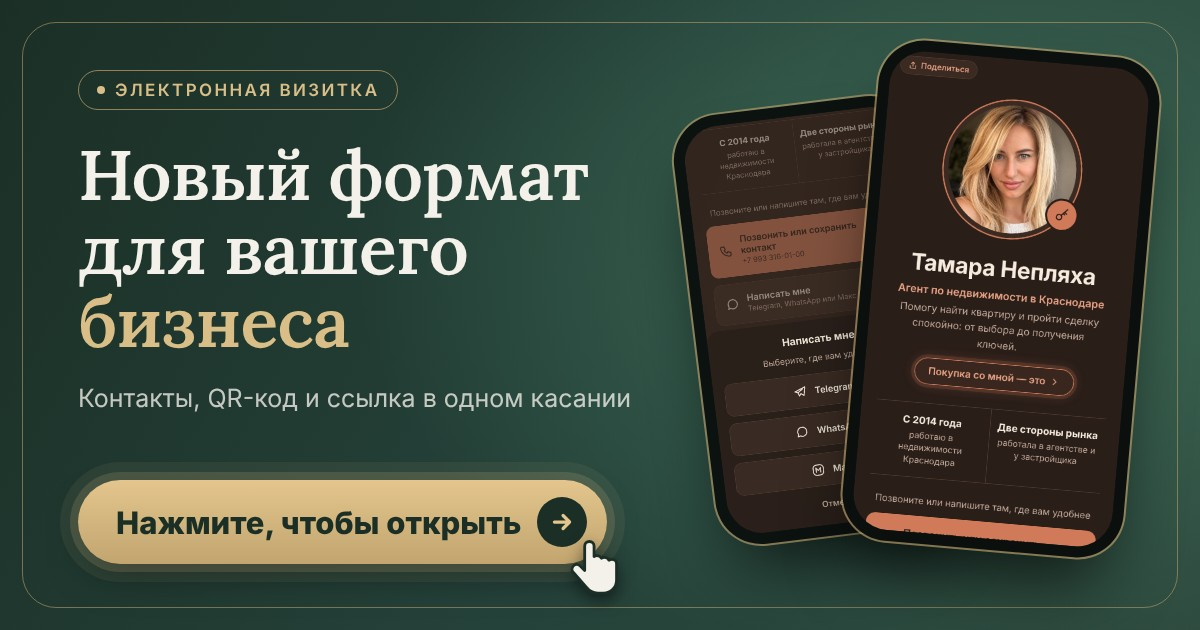
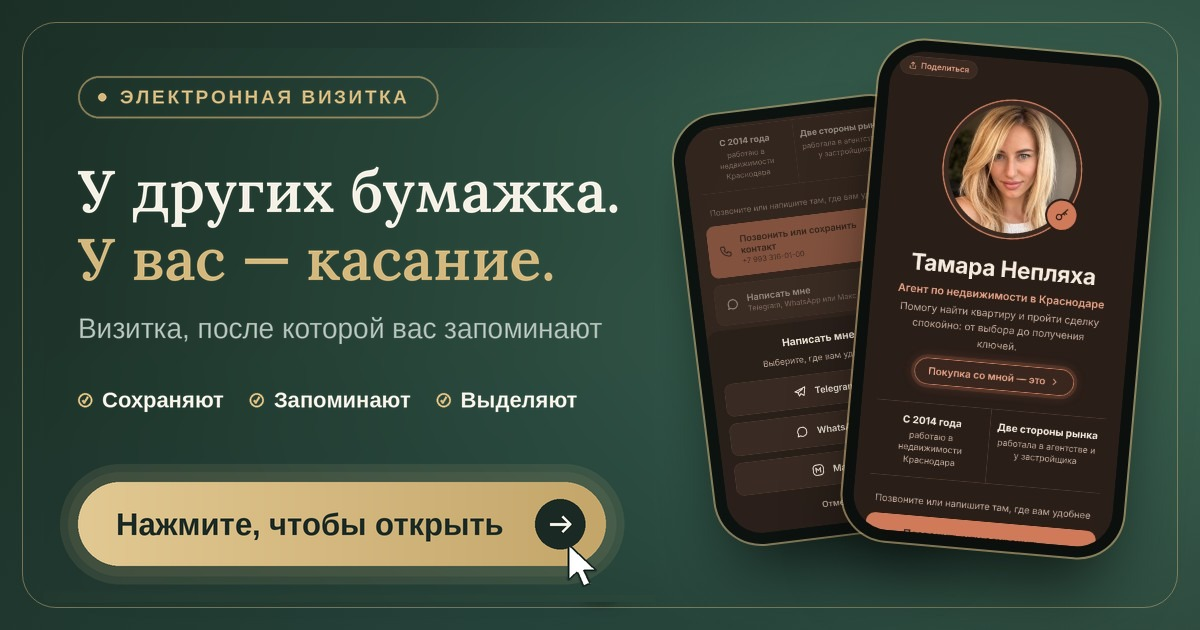
Add files via upload

diff --git a/vizitka-nikolai/index.html b/vizitka-nikolai/index.html
@@ -5,12 +5,12 @@
 <meta name="viewport" content="width=device-width, initial-scale=1, viewport-fit=cover">
 <title>Электронная визитка под ключ — Николай</title>
 <meta name="description" content="Электронная визитка: ссылка, QR-код и все ваши контакты в одном месте. Закажите в личных сообщениях.">
-<meta property="og:title" content="Новый формат для вашего бизнеса">
-<meta property="og:description" content="Электронная визитка: контакты, QR-код и ссылка в одном касании. Нажмите, чтобы посмотреть, как это работает.">
+<meta property="og:title" content="У других бумажка. У вас — касание">
+<meta property="og:description" content="Электронная визитка, после которой вас запоминают. Нажмите, чтобы посмотреть, как это работает.">
 <meta property="og:type" content="website">
 <meta property="og:locale" content="ru_RU">
 <meta property="og:url" content="https://tamara-neplyaha.github.io/vizitka-nikolai/">
-<meta property="og:image" content="https://tamara-neplyaha.github.io/vizitka-nikolai/preview.jpg?v=4">
+<meta property="og:image" content="https://tamara-neplyaha.github.io/vizitka-nikolai/preview.jpg?v=5">
 <meta property="og:image:width" content="1200">
 <meta property="og:image:height" content="630">
 <meta name="twitter:card" content="summary_large_image">
@@ -292,6 +292,33 @@ html.pick-open{overflow:hidden}
 .pick span{display:block;margin-top:4px;color:var(--muted);font-size:13.5px;line-height:1.4}
 .pick-close{display:flex;align-items:center;justify-content:center;width:100%;min-height:48px;margin-top:14px;padding:0 16px;border-radius:999px;border:1.5px solid var(--line);background:transparent;color:var(--muted);font:600 15px/1 Manrope,"Segoe UI",system-ui,sans-serif;cursor:pointer}
 @media (prefers-reduced-motion:reduce){.pick-box{animation:none}}
+
+/* касание NFC-брелоком: экран «просыпается» и запускается видео */
+.stage{overflow-x:clip}
+.phone{cursor:pointer}
+.screen.demoscr{position:relative}
+.wake{position:absolute;inset:0;z-index:2;display:flex;align-items:center;justify-content:center;background:#15100D;opacity:0;pointer-events:none;line-height:0}
+.wake svg{width:46px;height:46px;fill:none;stroke:#C2A56F;stroke-width:1.6;stroke-linecap:round}
+.tap-pre .wake{opacity:1}
+.tap-on .wake{animation:wakeFade 4.4s ease both}
+@keyframes wakeFade{0%,33%{opacity:1}45%,100%{opacity:0}}
+.tap-ring{position:absolute;left:10px;top:10px;width:24px;height:24px;margin:-12px 0 0 -12px;border:2px solid #C2A56F;border-radius:50%;opacity:0;pointer-events:none;z-index:3}
+.tap-on .tap-ring{animation:tapRing 1.4s ease-out both;animation-delay:calc(1.45s + var(--d,0s))}
+@keyframes tapRing{0%{transform:scale(.4);opacity:.9}100%{transform:scale(6);opacity:0}}
+.tap-hand{position:absolute;left:-106px;top:-10px;width:150px;height:auto;opacity:0;pointer-events:none;z-index:4;filter:drop-shadow(0 6px 8px rgba(0,0,0,.35))}
+.tap-on .tap-hand{animation:handGo 4.4s both}
+@keyframes handGo{
+  0%,8%{transform:translate(-110px,130px) rotate(-6deg);opacity:0;animation-timing-function:cubic-bezier(.2,.7,.3,1)}
+  14%{opacity:1}
+  33%{transform:translate(0,0) rotate(0);opacity:1}
+  38%{transform:translate(2px,-2px) scale(.98)}
+  44%,52%{transform:translate(0,0) rotate(0);opacity:1;animation-timing-function:ease-in}
+  73%,100%{transform:translate(-110px,130px) rotate(-6deg);opacity:0}
+}
+.tapcap{margin-top:14px;text-align:center;color:var(--brass);font:600 15px/1.4 Manrope,"Segoe UI",system-ui,sans-serif}
+.stage.tap-pre+.tapcap{opacity:0}
+.stage.tap-on+.tapcap{animation:capIn 4.4s ease both}
+@keyframes capIn{0%,40%{opacity:0;transform:translateY(6px)}55%,100%{opacity:1;transform:none}}
 </style>
 <script>
 /* Сезон: зима с 1 декабря по 10 января включительно, в остальное время осень.
@@ -349,7 +376,7 @@ html.pick-open{overflow:hidden}
   <p class="ny"><span aria-hidden="true">❄</span><b id="nytxt">С наступающим<br>Новым годом!</b><span aria-hidden="true">❄</span></p>
   <h1>Новый формат<br><em>для вашего бизнеса</em></h1>
   <div class="orn" aria-hidden="true"><i></i></div>
-  <p class="lead gold">Все ваши контакты, соцсети, сайты, фото, отзывы в одной визитке</p>
+  <p class="lead gold">Бумажную визитку теряют. Эту сохраняют</p>
 
   <div class="stage" aria-hidden="true">
     <div class="phone"><svg class="hat" viewBox="0 0 100 100" aria-hidden="true">
@@ -369,9 +396,35 @@ html.pick-open{overflow:hidden}
         </g>
         <path d="M14 82C30 86 70 86 90 82" stroke="#C9D5E0" stroke-opacity=".7" stroke-width="1.6" fill="none" stroke-linecap="round"/>
       </svg><div class="screen demoscr">
-      <video class="demo" id="demo" muted loop autoplay playsinline preload="auto" poster="demo-dark-poster.jpg" width="390" height="720"><source src="demo-dark.mp4" type="video/mp4"></video>
-    </div></div>
+      <video class="demo" id="demo" muted loop autoplay playsinline preload="auto" poster="demo-dark-poster.jpg" width="390" height="720"><source src="demo-dark.mp4" type="video/mp4"></video><div class="wake" aria-hidden="true"><svg viewBox="0 0 24 24"><path d="M9 8a6 6 0 0 1 0 8M12.5 5.5a10 10 0 0 1 0 13M16 3a14 14 0 0 1 0 18"/></svg></div>
+    </div>
+    <i class="tap-ring"></i><i class="tap-ring" style="--d:.18s"></i><i class="tap-ring" style="--d:.36s"></i>
+    <svg class="tap-hand" viewBox="-90 6 210 210" aria-hidden="true">
+      <defs>
+        <linearGradient id="skinG" x1="0" y1="0" x2="1" y2="1"><stop offset="0" stop-color="#F5D9C3"/><stop offset="1" stop-color="#DFB295"/></linearGradient>
+        <linearGradient id="tagG" x1="0" y1="0" x2="1" y2="1"><stop offset="0" stop-color="#D9C08A"/><stop offset="1" stop-color="#A68A5B"/></linearGradient>
+      </defs>
+      <g transform="rotate(38 70 34)" stroke-linecap="round" stroke-linejoin="round">
+        <path d="M47 148L42 214H102L97 148Z" fill="url(#skinG)" stroke="#C99573" stroke-width="1.2"/>
+        <rect x="36" y="180" width="72" height="40" rx="7" fill="#2E4A3E"/><rect x="36" y="180" width="72" height="3" fill="#A68A5B"/>
+        <path d="M42 120C40 101 50 90 65 90H88C101 90 107 102 105 121L99 156H49Z" fill="url(#skinG)" stroke="#C99573" stroke-width="1.2"/>
+        <rect x="86" y="92" width="29" height="16" rx="8" fill="url(#skinG)" stroke="#C99573" stroke-width="1.2"/>
+        <rect x="88" y="108" width="28" height="16" rx="8" fill="url(#skinG)" stroke="#C99573" stroke-width="1.2"/>
+        <rect x="87" y="124" width="25" height="15" rx="7.5" fill="url(#skinG)" stroke="#C99573" stroke-width="1.2"/>
+        <path d="M48 130C38 108 46 80 63 52" fill="none" stroke="#C99573" stroke-width="18"/>
+        <path d="M48 130C38 108 46 80 63 52" fill="none" stroke="url(#skinG)" stroke-width="15.5"/>
+        <circle cx="57" cy="16" r="7.5" fill="none" stroke="#C9CDD0" stroke-width="2.6"/>
+        <circle cx="70" cy="34" r="20" fill="url(#tagG)" stroke="#8A7048" stroke-width="1.2"/>
+        <circle cx="70" cy="34" r="15.5" fill="none" stroke="#F4E7C8" stroke-opacity=".7" stroke-width=".8"/>
+        <path d="M65 28a8 8 0 0 1 0 12M70 25a12 12 0 0 1 0 18" fill="none" stroke="#2A1E19" stroke-width="1.7"/>
+        <path d="M75 108C77 86 75 66 71 46" fill="none" stroke="#C99573" stroke-width="18.5"/>
+        <path d="M75 108C77 86 75 66 71 46" fill="none" stroke="url(#skinG)" stroke-width="16"/>
+        <ellipse cx="71" cy="53" rx="5.2" ry="7" fill="#F8E6D6" stroke="#E1B79A" stroke-width=".9"/>
+        <path d="M52 112C50 104 52 98 57 94" fill="none" stroke="#fff" stroke-opacity=".35" stroke-width="2"/>
+      </g>
+    </svg></div>
   </div>
+  <p class="tapcap" id="tapcap">Одно касание — и вы в телефоне клиента</p>
 
   <div class="examples">
     <a class="example order" href="#plans">Заказать визитку</a>
@@ -390,12 +443,12 @@ html.pick-open{overflow:hidden}
   <p class="appnote"><svg viewBox="0 0 24 24" aria-hidden="true"><rect x="4" y="4" width="16" height="16" rx="4"/><path d="M12 8v8M8 12h8"/></svg>Визитку можно сохранить на экран телефона: она откроется как приложение</p>
 
   <section>
-    <h2>Зачем это вам</h2>
+    <h2>Чем вы выделитесь</h2>
     <ul class="perks">
-      <li><svg viewBox="0 0 24 24" aria-hidden="true"><path d="M13 2L5 14h6l-1 8 8-12h-6z"/></svg>Вас сохраняют в телефон одним касанием</li>
-      <li><svg viewBox="0 0 24 24" aria-hidden="true"><rect x="3" y="3" width="7" height="7" rx="1"/><rect x="14" y="3" width="7" height="7" rx="1"/><rect x="3" y="14" width="7" height="7" rx="1"/><path d="M14 14h3v3h-3zM17 20h4M20 17v3"/></svg>QR-код везде: на бумажной визитке, вывеске, в подписи</li>
-      <li><svg viewBox="0 0 24 24" aria-hidden="true"><rect x="7" y="2" width="10" height="20" rx="2.5"/><path d="M11 18h2"/></svg>Без приложений: открывается на любом смартфоне</li>
-      <li><svg viewBox="0 0 24 24" aria-hidden="true"><path d="M7 8c-3 0-5 2-5 4s2 4 5 4c4 0 6-8 10-8 3 0 5 2 5 4s-2 4-5 4c-4 0-6-8-10-8z"/></svg>Всегда актуально: обновили канал или сайт, и визитка ведёт на свежее</li>
+      <li><svg viewBox="0 0 24 24" aria-hidden="true"><path d="M13 2L5 14h6l-1 8 8-12h-6z"/></svg>Бумажную визитку выбрасывают, вашу сохраняют на экран телефона</li>
+      <li><svg viewBox="0 0 24 24" aria-hidden="true"><rect x="3" y="3" width="7" height="7" rx="1"/><rect x="14" y="3" width="7" height="7" rx="1"/><rect x="3" y="14" width="7" height="7" rx="1"/><path d="M14 14h3v3h-3zM17 20h4M20 17v3"/></svg>Другие диктуют номер, вам достаточно касания или QR-кода</li>
+      <li><svg viewBox="0 0 24 24" aria-hidden="true"><rect x="7" y="2" width="10" height="20" rx="2.5"/><path d="M11 18h2"/></svg>У других «напишите мне», у вас сразу фото, работы и отзывы клиентов</li>
+      <li><svg viewBox="0 0 24 24" aria-hidden="true"><path d="M7 8c-3 0-5 2-5 4s2 4 5 4c4 0 6-8 10-8 3 0 5 2 5 4s-2 4-5 4c-4 0-6-8-10-8z"/></svg>Сменили сайт или канал: визитка обновилась, а QR и ссылка те же</li>
     </ul>
     <details class="more">
       <summary><span class="o">Полное описание</span><span class="c">Свернуть</span></summary>
@@ -430,26 +483,26 @@ html.pick-open{overflow:hidden}
   <section id="plans">
     <h2>Варианты</h2>
     <div class="plans">
-      <button type="button" class="plan" data-plan="Базовая" data-price="2 400 ₽" data-extra="">
-        <h3>Базовая <em>2 400 ₽</em></h3>
-        <p>Фото, описание, звонок, мессенджеры, сохранение в контакты, ссылка и QR-код.</p>
+      <button type="button" class="plan" data-plan="Старт" data-price="2 400 ₽" data-extra="">
+        <h3>Старт <em>2 400 ₽</em></h3>
+        <p><b>Вас находят и сохраняют.</b> Фото, описание, звонок, мессенджеры, сохранение в контакты, ссылка и QR-код.</p>
         <span class="pick">Оформить заявку</span>
       </button>
-      <button type="button" class="plan" data-plan="С отзывами и кейсами" data-price="2 700 ₽" data-extra="reviews">
-        <h3>С отзывами и кейсами <em>2 700 ₽</em></h3>
-        <p>Всё из базовой, плюс отзывы клиентов и истории работ, которые раскрываются по кнопке.</p>
+      <button type="button" class="plan" data-plan="Доверие" data-price="2 700 ₽" data-extra="reviews">
+        <h3>Доверие <em>2 700 ₽</em></h3>
+        <p><b>Вам верят ещё до разговора.</b> Всё из «Старта», плюс отзывы клиентов и истории работ, которые раскрываются по кнопке.</p>
         <span class="pick">Оформить заявку</span>
       </button>
-      <button type="button" class="plan main" data-plan="Всё включено" data-price="3 000 ₽" data-extra="reviews nfc">
+      <button type="button" class="plan main" data-plan="Статус" data-price="3 000 ₽" data-extra="reviews nfc">
         <span class="tag">Рекомендую</span>
-        <h3>Всё включено <em>3 000 ₽</em></h3>
-        <p>Всё из предыдущих, плюс сезонное оформление и NFC-метка: брелок или наклейка, которую достаточно приложить к телефону.</p>
+        <h3>Статус <em>3 000 ₽</em></h3>
+        <p><b>Вас запоминают.</b> Всё из предыдущих, плюс иконка с вашим фото или логотипом на экране телефона, сезонное оформление и NFC-метка: брелок или наклейка, которую достаточно приложить к телефону.</p>
         <span class="pick">Оформить заявку</span>
       </button>
       <a class="example vipex" href="https://tamara-neplyaha.github.io/kosmos.html?from=nikolai">Посмотреть VIP-пример <span class="vipbadge">VIP</span></a>
-      <button type="button" class="plan vip" data-plan="VIP" data-price="5 000 ₽" data-extra="reviews nfc vip">
-        <h3>VIP <em>5 000 ₽</em></h3>
-        <p>Визитка полностью по вашему дизайну. Учитываю все пожелания: стиль, цвета, оформление, детали. Всё из предыдущих вариантов, а фантазия ничем не ограничена.</p>
+      <button type="button" class="plan vip" data-plan="Авторская (VIP)" data-price="5 000 ₽" data-extra="reviews nfc vip">
+        <h3>Авторская <em>5 000 ₽</em></h3>
+        <p><b>Визитка, которой нет ни у кого.</b> Визитка полностью по вашему дизайну. Учитываю все пожелания: стиль, цвета, оформление, детали. Всё из предыдущих вариантов, а фантазия ничем не ограничена.</p>
         <span class="pick">Оформить заявку</span>
       </button>
     </div>
@@ -811,6 +864,31 @@ html.pick-open{overflow:hidden}
   var go=function(){var r=v.play();if(r&&r.catch)r.catch(function(){})};
   go();
   document.addEventListener('visibilitychange',function(){document.hidden?v.pause():go()});
+})();
+</script>
+<script>
+(function(){
+  var st=document.querySelector('.stage'),v=document.getElementById('demo');
+  if(!st||!v)return;
+  if(window.matchMedia&&matchMedia('(prefers-reduced-motion:reduce)').matches)return;
+  var t;
+  st.classList.add('tap-pre');
+  function run(){
+    clearTimeout(t);
+    st.classList.remove('tap-on');
+    void st.offsetWidth;
+    try{v.pause();v.currentTime=0}catch(e){}
+    st.classList.add('tap-on');
+    t=setTimeout(function(){var p=v.play();if(p&&p.catch)p.catch(function(){})},1600);
+  }
+  st.addEventListener('click',run);
+  if(!('IntersectionObserver' in window)){run();return}
+  var out=true;
+  new IntersectionObserver(function(es){
+    es.forEach(function(e){
+      if(e.isIntersecting){if(out){out=false;run()}}else out=true;
+    });
+  },{threshold:.6}).observe(st);
 })();
 </script>
 <div class="pick-sheet" id="pickSheet" role="dialog" aria-modal="true" aria-labelledby="pickTitle" hidden>
